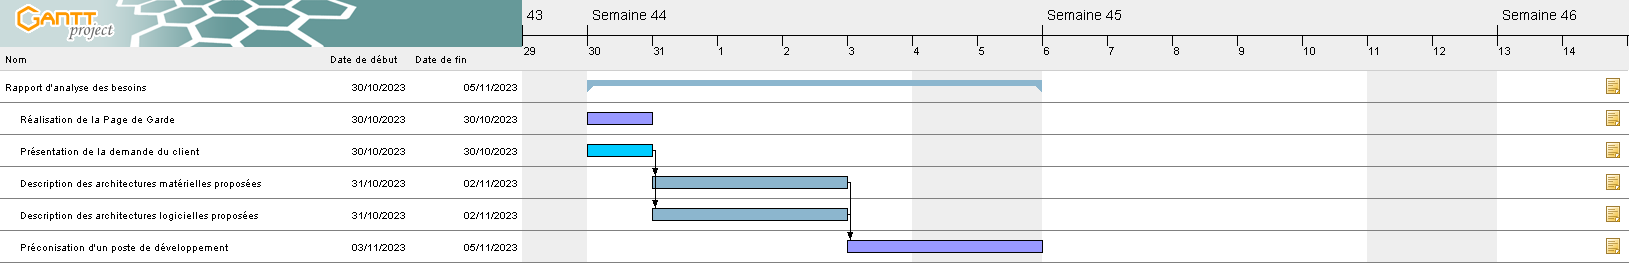
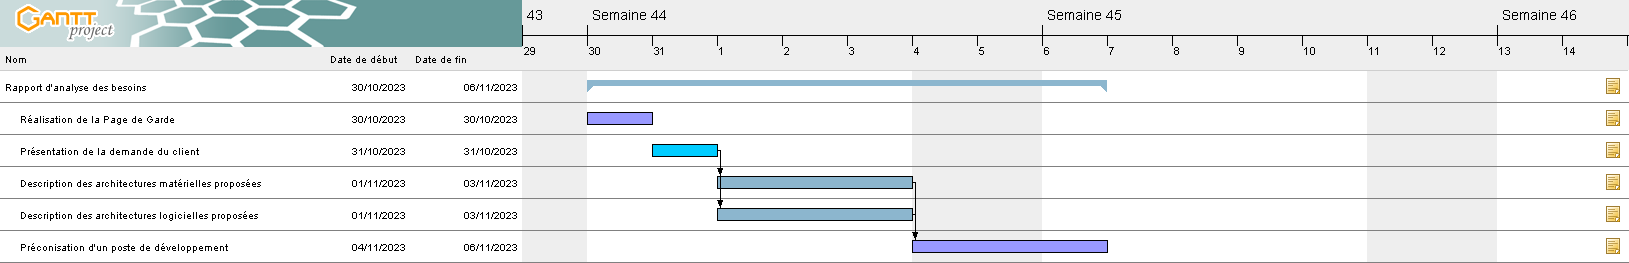
modified gantt

diff --git a/organisation/gantt/html/GanttSAE103-tasks.html b/organisation/gantt/html/GanttSAE103-tasks.html
@@ -197,7 +197,7 @@ Le MCD propos&eacute; ("simplification" de la r&eacute;alit&eacute;) doit &ecirc
                         </div>
                     </td><td valign="top" class="cell">
                         <div style="margin:0; padding:0; padding-left:0.5em">
-                            <div style="margin: 0; padding: 0; text-align: ;">05/11/2023</div>
+                            <div style="margin: 0; padding: 0; text-align: ;">06/11/2023</div>
                         </div>
                     </td><td valign="top" class="cell"></td>
                 </tr>
@@ -235,11 +235,11 @@ Le MCD propos&eacute; ("simplification" de la r&eacute;alit&eacute;) doit &ecirc
                         </div>
                     </td><td valign="top" class="cell">
                         <div style="margin:0; padding:0; padding-left:0.5em">
-                            <div style="margin: 0; padding: 0; text-align: ;">30/10/2023</div>
+                            <div style="margin: 0; padding: 0; text-align: ;">31/10/2023</div>
                         </div>
                     </td><td valign="top" class="cell">
                         <div style="margin:0; padding:0; padding-left:0.5em">
-                            <div style="margin: 0; padding: 0; text-align: ;">30/10/2023</div>
+                            <div style="margin: 0; padding: 0; text-align: ;">31/10/2023</div>
                         </div>
                     </td><td valign="top" class="cell">Olivier MARAVAL, Sugdenaz EKICI</td>
                 </tr>
@@ -258,13 +258,13 @@ Le MCD propos&eacute; ("simplification" de la r&eacute;alit&eacute;) doit &ecirc
                         </div>
                     </td><td valign="top" class="cell">
                         <div style="margin:0; padding:0; padding-left:0.5em">
-                            <div style="margin: 0; padding: 0; text-align: ;">31/10/2023</div>
+                            <div style="margin: 0; padding: 0; text-align: ;">01/11/2023</div>
                         </div>
                     </td><td valign="top" class="cell">
                         <div style="margin:0; padding:0; padding-left:0.5em">
-                            <div style="margin: 0; padding: 0; text-align: ;">02/11/2023</div>
+                            <div style="margin: 0; padding: 0; text-align: ;">03/11/2023</div>
                         </div>
-                    </td><td valign="top" class="cell">Valentin VIRET-JACQUOT, Olivier MARAVAL</td>
+                    </td><td valign="top" class="cell">Olivier MARAVAL, Valentin VIRET-JACQUOT</td>
                 </tr>
                 <tr>
                     <td valign="top" class="cell">
@@ -280,13 +280,13 @@ Le MCD propos&eacute; ("simplification" de la r&eacute;alit&eacute;) doit &ecirc
                         </div>
                     </td><td valign="top" class="cell">
                         <div style="margin:0; padding:0; padding-left:0.5em">
-                            <div style="margin: 0; padding: 0; text-align: ;">31/10/2023</div>
+                            <div style="margin: 0; padding: 0; text-align: ;">01/11/2023</div>
                         </div>
                     </td><td valign="top" class="cell">
                         <div style="margin:0; padding:0; padding-left:0.5em">
-                            <div style="margin: 0; padding: 0; text-align: ;">02/11/2023</div>
+                            <div style="margin: 0; padding: 0; text-align: ;">03/11/2023</div>
                         </div>
-                    </td><td valign="top" class="cell">Yahia KHERZA, Sugdenaz EKICI</td>
+                    </td><td valign="top" class="cell">Sugdenaz EKICI, Yahia KHERZA</td>
                 </tr>
                 <tr>
                     <td valign="top" class="cell">
@@ -302,11 +302,11 @@ Le MCD propos&eacute; ("simplification" de la r&eacute;alit&eacute;) doit &ecirc
                         </div>
                     </td><td valign="top" class="cell">
                         <div style="margin:0; padding:0; padding-left:0.5em">
-                            <div style="margin: 0; padding: 0; text-align: ;">03/11/2023</div>
+                            <div style="margin: 0; padding: 0; text-align: ;">04/11/2023</div>
                         </div>
                     </td><td valign="top" class="cell">
                         <div style="margin:0; padding:0; padding-left:0.5em">
-                            <div style="margin: 0; padding: 0; text-align: ;">05/11/2023</div>
+                            <div style="margin: 0; padding: 0; text-align: ;">06/11/2023</div>
                         </div>
                     </td><td valign="top" class="cell"></td>
                 </tr>
@@ -317,7 +317,7 @@ Le MCD propos&eacute; ("simplification" de la r&eacute;alit&eacute;) doit &ecirc
             <tr>
                 <td bgcolor="#6d9ec6" width="50%"><font color="#FFFFFF"><b>Ganttproject (3.2.3247)</b></font></td><td bgcolor="#6d9ec6" width="50%" align="right"><b><a href="http://ganttproject.biz">ganttproject.biz</a></b>
                     <br>
-                    <b>30/10/2023 - 11:53:39</b></td>
+                    <b>30/10/2023 - 20:02:20</b></td>
             </tr>
         </table>
     </body>

diff --git a/organisation/gantt/html/GanttSAE103-chart.html b/organisation/gantt/html/GanttSAE103-chart.html
@@ -123,7 +123,7 @@ div.page_links {
             <tr>
                 <td bgcolor="#6d9ec6" width="50%"><font color="#FFFFFF"><b>Ganttproject (3.2.3247)</b></font></td><td bgcolor="#6d9ec6" width="50%" align="right"><b><a href="http://ganttproject.biz">ganttproject.biz</a></b>
                     <br>
-                    <b>30/10/2023 - 11:53:39</b></td>
+                    <b>30/10/2023 - 20:02:20</b></td>
             </tr>
         </table>
     </body>

diff --git a/organisation/gantt/html/GanttSAE103.html b/organisation/gantt/html/GanttSAE103.html
@@ -152,7 +152,7 @@ div.page_links {
             <tr>
                 <td bgcolor="#6d9ec6" width="50%"><font color="#FFFFFF"><b>Ganttproject (3.2.3247)</b></font></td><td bgcolor="#6d9ec6" width="50%" align="right"><b><a href="http://ganttproject.biz">ganttproject.biz</a></b>
                     <br>
-                    <b>30/10/2023 - 11:53:39</b></td>
+                    <b>30/10/2023 - 20:02:20</b></td>
             </tr>
         </table>
     </body>

diff --git a/organisation/gantt/html/GanttSAE103-resources.html b/organisation/gantt/html/GanttSAE103-resources.html
@@ -186,7 +186,7 @@ h5.header {
             <tr>
                 <td bgcolor="#6d9ec6" width="50%"><font color="#FFFFFF"><b>Ganttproject (3.2.3247)</b></font></td><td bgcolor="#6d9ec6" width="50%" align="right"><b><a href="http://ganttproject.biz">ganttproject.biz</a></b>
                     <br>
-                    <b>30/10/2023 - 11:53:39</b></td>
+                    <b>30/10/2023 - 20:02:20</b></td>
             </tr>
         </table>
     </body>
